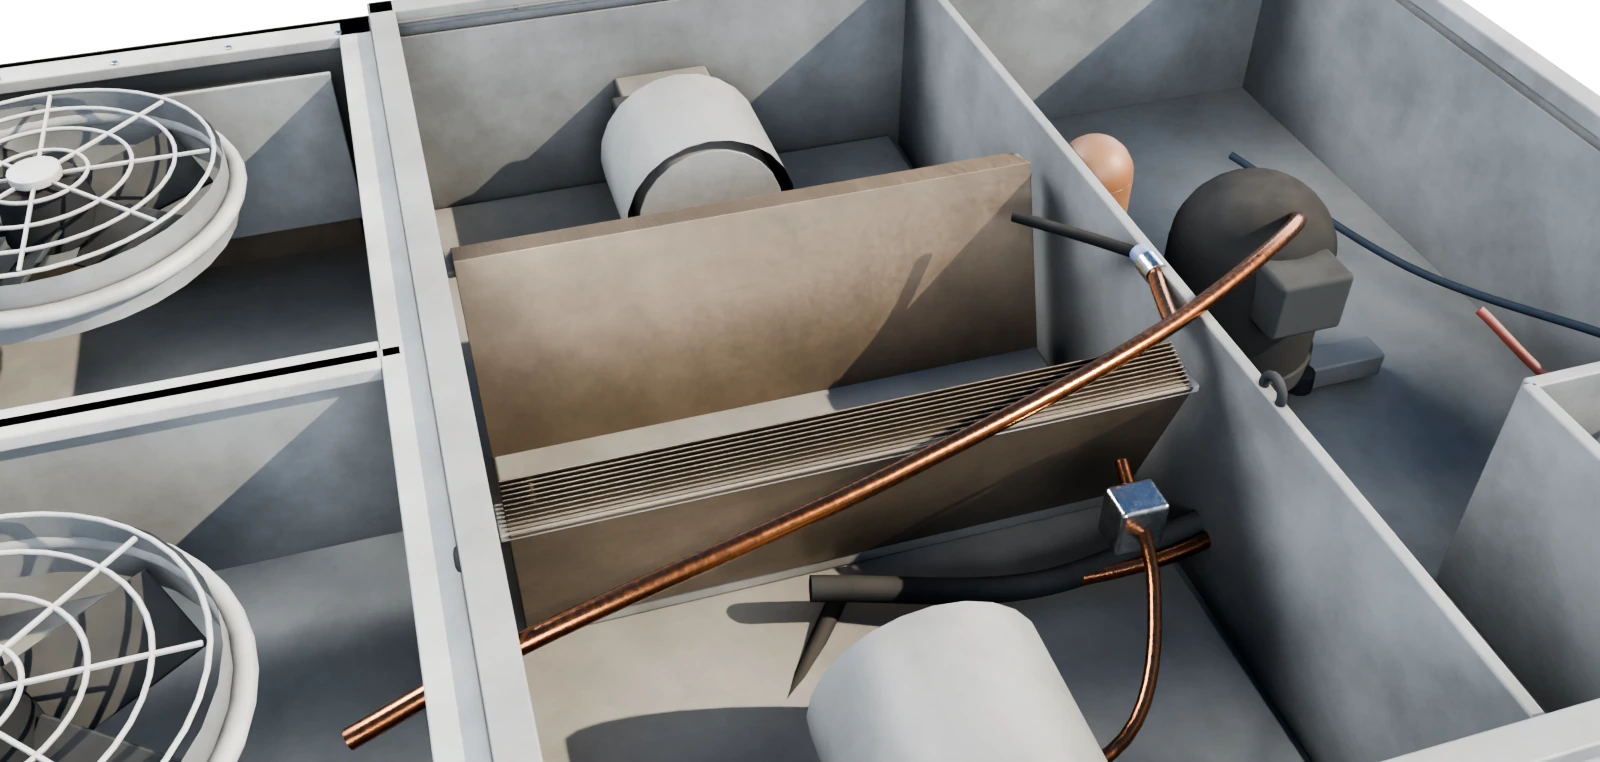
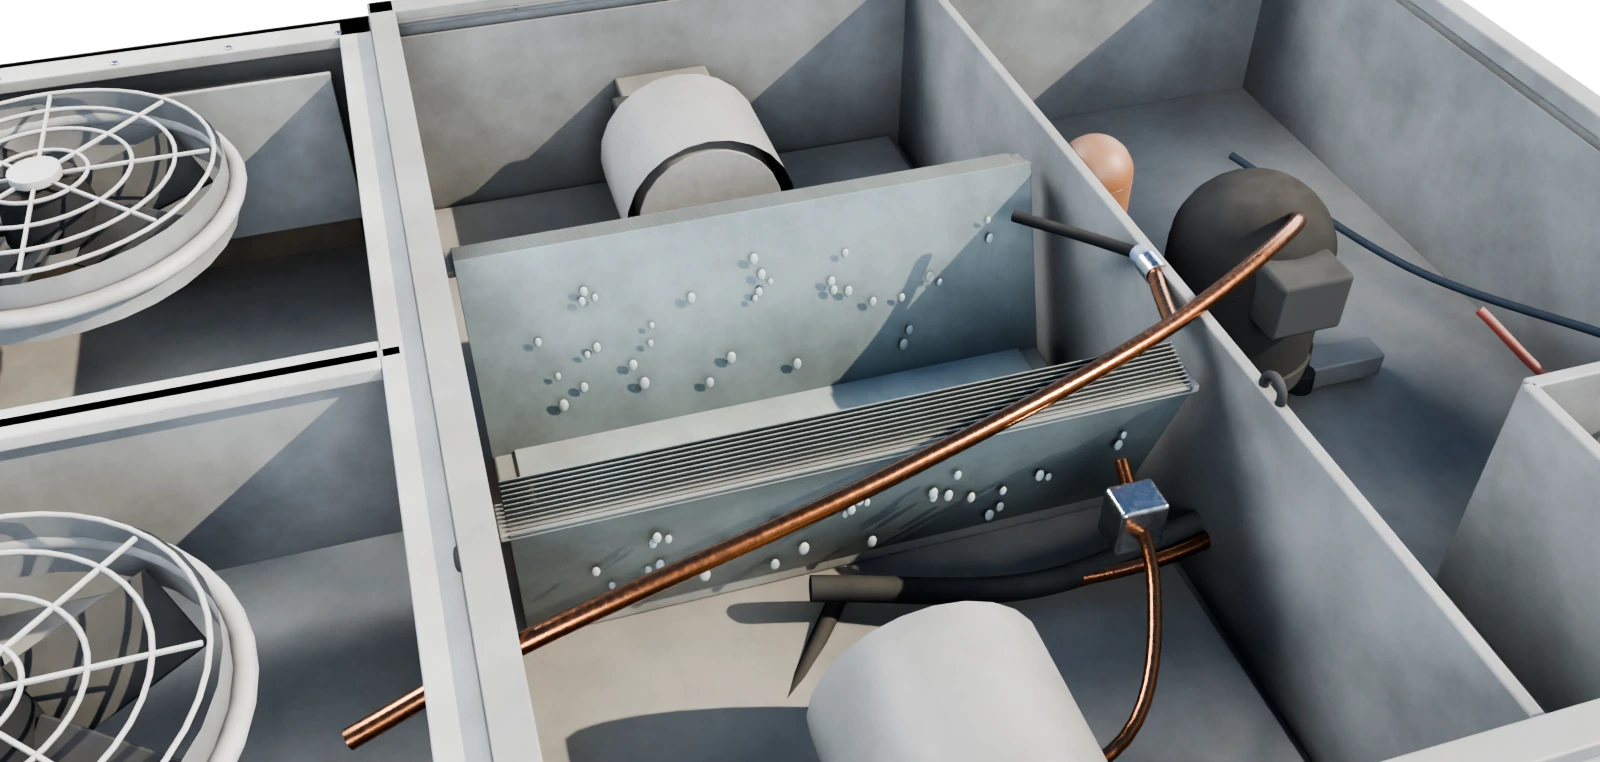
feat(hvac): 制冷段补上结露，画面不再"文案在说、画面不动"（R11-7）
第五轮评审做逐 0.01 采样时顺带发现的：`hvac` 在 `t>=0.68` 之后 `setT` 已经
没有任何动作——盖板/盒盖/断路器/指示灯/风机都在 0.5 之前动完，而阶段文案
从「通风模式运行」切到「制冷模式起动」「稳定运行」。等于让文案撒谎。

## 补的是什么

真实机组制冷时，蒸发器翅片在露点以下、表面挂满凝水，水顺着落进接水盘——
这是"制冷"唯一看得见的证据。所以：

- **蒸发器单独一份翅片材质**（`evapFinMat`，clone 自 `finMat`）：制冷时颜色由
  黄铜 `0x9a8c7c` 转冷灰蓝 `0x84979f`、粗糙度 0.62→0.22、环境反射提高。
  共用 `finMat` 会把冷凝器也染白，那是散热侧、本来就不该结露。
- **34 颗凝水珠**：贴在两片 V 形盘管的内外两侧（镜头在哪一侧都看得到），
  越靠下越大。位置用哈希式伪随机（`sin*43758` 取小数）——第一版用线性取模
  排出了一条条斜向珠链，远看像粘了珠串；也不能用 `Math.random`，导出要可复现。
- **接水盘积水**：0.68 起涨、0.92 到顶，对应「制冷起动 → 稳定运行」两段。

动画时间取 `HVAC_T.cool`（`lib/devphase.ts`），与阶段文案同一个常量。

## 三版试出来的

1. 近白 `0xd2e2e8` → 远看像一块白塑料板，翅片层次全糊；
2. 7 颗 ø28mm 排成一列 → 像装饰铆钉，不像水；
3. 最终：冷湿色 + 34 颗 6–13mm 错落分布（按露点以下的水膜来，不是结霜）。

## 重烘

`evaporator.webp`（t=0.78）与 `compressor.webp`（t=1.0，背景里能看到结露的盘管）
两张重渲；其余三张（t=0.05/0.36/0.55）结露尚未发生，未动。
机位与之前完全一致（S4/S5 用显式包围盒，`export-hvac.mjs` 输出的相机串没变）。

## 合规

`data/samples/` 与 `data/knowledge/` **一个字节没动**，内容指纹 `a108de9a…`
仍然有效；已在 `docs/status/内容合规确认-2026-11-06.md` 补 §4.18，
说明这是同一台设备在同一已确认状态下的样子补全，无外部资产。

## 证据

前端 29 文件 / 371 条通过；`vue-tsc` 干净；构建 7.09s；首屏 5.00/6KB、48.07/50KB；
axe 30 次扫描 0 违规；页面实拍：第 4 步实物图与三维都是结露外观，0 报错；
三维逐帧对比（0.5 / 0.72 / 0.95）可见盘管由铜色转冷湿并出现水珠。

Changed region(s): [[0.2812, 0.1811, 0.75, 0.7848]]

diff --git a/apps/electro-assist/web/src/figures/devices/hvac.ts b/apps/electro-assist/web/src/figures/devices/hvac.ts
@@ -28,7 +28,9 @@
  */
 import {
   CatmullRomCurve3,
+  Color,
   CylinderGeometry,
+  Euler,
   Group,
   Mesh,
   MeshStandardMaterial,
@@ -51,7 +53,7 @@ import {
   steelMaterial,
 } from './rig'
 import { canvasTexture, facePlate } from './print'
-import { phaseFor } from '../../lib/devphase'
+import { HVAC_T, phaseFor } from '../../lib/devphase'
 
 /* ------------------------------------------------------------------ 尺寸 */
 
@@ -83,6 +85,13 @@ const CASING = 0xb9c0c6
 const CASING_DARK = 0x8b9298
 const FRAME = 0x686f75
 const FIN = 0x9a8c7c
+/** 结露后的翅片色。
+ *  不是"结霜"——制冷工况下翅片在露点以下、结的是**水膜**：比金属暗一档、
+ *  偏冷灰蓝、而且很亮（水膜反光）。第一版刷成近白 `0xd2e2e8`，远看像一块
+ *  白塑料板，翅片层次全糊了。 */
+const FROST = 0x84979f
+const FIN_COLOR = new Color(FIN)
+const FROST_COLOR = new Color(FROST)
 
 /* -------------------------------------------------------------- 小工具 */
 
@@ -264,6 +273,9 @@ export function buildHvac(): DeviceRig {
     roughness: 0.62,
     envMapIntensity: 0.9,
   })
+  /* 蒸发器**单独一份**翅片材质：制冷时它要结露变白。
+     共用 `finMat` 会把冷凝器也一起染白（那是散热侧，本来就不该结露）。 */
+  const evapFinMat = finMat.clone()
   const copper = new MeshStandardMaterial({
     color: 0xb26b3c,
     metalness: 1,
@@ -522,11 +534,13 @@ export function buildHvac(): DeviceRig {
   evaporator.add(drainPan)
 
   // V 形蒸发器：两片斜置翅片盘管，上缘相接
+  const evapPacks: Array<{ sign: number; pack: Group }> = []
   for (const sign of [-1, 1]) {
-    const pack = finPack(evaporator, 0.8, 0.28, 0.07, 12, finMat, copper)
+    const pack = finPack(evaporator, 0.8, 0.28, 0.07, 12, evapFinMat, copper)
     pack.position.set(0, BOTTOM + 0.2, sign * 0.19)
     pack.rotation.x = sign * 0.34
     pack.rotation.z = 0
+    evapPacks.push({ sign, pack })
   }
   /* 原来这里有一块"挡水板"横在 V 形盘管上方——第 4 步要看的就是盘管，
      一块白板把整个蒸发段盖死，图里只剩白板。真实机组的挡水板贴在盘管
@@ -534,6 +548,46 @@ export function buildHvac(): DeviceRig {
   for (const z of [-0.24, 0.24]) {
     evaporator.add(roundedBox(0.82, 0.01, 0.05, steelMaterial(0xa8adb1), 0, BOTTOM + 0.315, z, 0.002))
   }
+
+  /* 结露（制冷段才出现）：翅片外侧挂水珠 + 接水盘积水。
+     2026-11-12 R11-7：0.68 之后画面原本一动不动，而阶段文案已经在说
+     "制冷模式起动 / 稳定运行"——文案在说、画面不动。真实机组制冷时
+     蒸发器翅片挂满凝水、水顺着落进接水盘，这是"制冷"唯一看得见的证据。
+     水珠挂在外侧面（`sign` 决定哪一侧是外侧），否则会被另一片盘管挡住。 */
+  const condensate = new Group()
+  evaporator.add(condensate)
+  const waterMat = paintedMaterial(0xb9d3dc)
+  waterMat.roughness = 0.18
+  /* 水珠：**小、多、错落**。第一版是 7 颗 ø28mm 排成一条直线，看着像装饰铆钉，
+     不像凝水。真实结露是密密麻麻的小珠子，越往下越大。位置用下标算出来的
+     伪随机（不能用 Math.random——导出要可复现，每次烘图必须一模一样）。 */
+  for (const { sign, pack } of evapPacks) {
+    /* 位置用哈希式伪随机（`sin*43758` 取小数位）：
+       用 `(i*37)%13` 那种线性取模会排出斜向的珠链——上一版就是这样，
+       远看像粘了一条条珠串，反而不像水。 */
+    const h = (n: number): number => {
+      const v = Math.sin(n * 127.1) * 43758.5453
+      return v - Math.floor(v)
+    }
+    for (let i = 0; i < 34; i += 1) {
+      const x = -0.33 + h(i * 1.7) * 0.66
+      const y = -0.09 + h(i * 3.1 + 11) * 0.18
+      // 越往下越大：凝水顺着翅片往下聚
+      const r = 0.0038 + h(i * 5.7 + 3) * 0.0026 + (y < -0.04 ? 0.0012 : 0)
+      for (const face of [-1, 1]) {
+        const local = new Vector3(x, y, face * 0.042)
+        local.applyEuler(new Euler(sign * 0.34, 0, 0)).add(pack.position)
+        const drop = new Mesh(new SphereGeometry(r, 8, 6), waterMat)
+        drop.position.copy(local)
+        // 扁一点、竖着拉长：贴面挂着的水珠不是正球
+        drop.scale.set(1, 1.55, 0.42)
+        condensate.add(drop)
+      }
+    }
+  }
+  // 接水盘积水：一块薄水面，随制冷进度上升一点（0.68 起 0，0.9 到顶）
+  const water = roundedBox(XC2 - XC1 - 0.16, 0.008, 0.3, waterMat, (XC1 + XC2) / 2, BOTTOM + 0.082, 0, 0.002)
+  condensate.add(water)
 
   // 两台离心送风机：分列蒸发器两侧，出口朝 Z 外侧
   for (const z of [-0.57, 0.57]) {
@@ -858,6 +912,23 @@ export function buildHvac(): DeviceRig {
     // 风机：0.5 起加速（送风机与冷凝风机同时），0.58 后满速
     const spin = t >= 0.5 ? 0.2 + smoothStep(seg(t, 0.5, 0.58)) * 1.8 : 0
     for (const f of fanRig) f.rotor.rotation.y = spin * Math.PI
+
+    /* 制冷段：翅片结露 + 接水盘积水（2026-11-12 R11-7）。
+       这一段原来画面**完全不动**——盖板/盒盖/断路器/指示灯/风机都在 0.5 之前
+       动完，而文案从「通风模式运行」切到「制冷模式起动」。真实机组制冷时
+       蒸发器翅片挂满凝水，是"制冷"唯一看得见的证据。
+       翅片只换色不动形：金属度降、粗糙度升，看着像挂了一层水膜。 */
+    const cool = smoothStep(seg(t, HVAC_T.cool, HVAC_T.cool + 0.1))
+    evapFinMat.color.copy(FIN_COLOR).lerp(FROST_COLOR, cool)
+    // 水膜：金属感降一档（水是介质）、粗糙度大幅降（反光），颜色走冷灰蓝
+    evapFinMat.metalness = 0.85 - 0.35 * cool
+    evapFinMat.roughness = 0.62 - 0.4 * cool
+    evapFinMat.envMapIntensity = 0.9 + 0.5 * cool
+    condensate.visible = cool > 0.02
+    // 接水盘的水位：0.68 起涨，0.92 到顶（对应"制冷稳定"那一段）
+    const wet = smoothStep(seg(t, HVAC_T.cool, 0.92))
+    water.scale.y = 0.4 + 0.6 * wet
+    water.position.y = BOTTOM + 0.078 + 0.012 * wet
   }
 
   /* 阶段文案的唯一来源在 `lib/devphase.ts`：同一句话不该在这里再写一遍。
